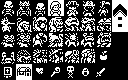
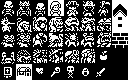
Added Wall

Changed region(s): [[0.875, 0.4, 1.0, 0.6]]

diff --git a/src/Player.c b/src/Player.c
@@ -50,15 +50,19 @@ int PlayerInit(Object *obj) {
 	Box2DBody *body = Box2DWorldCreateBody(CurrentWorld(), bodyDef);
 	Box2DBodyDefDestroy(bodyDef);
 
-	Box2DPolygonShape *boxShape = Box2DPolygonShapeCreate();
-	Box2DPolygonShapeSetAsBox(boxShape, (Vec2F) {0.25, 0.125});
+	Box2DCircleShape *circleShape = Box2DCircleShapeCreate();
+	Box2DCircleShapeSetRadius(circleShape, 0.25);
+
+	//Box2DPolygonShape *boxShape = Box2DPolygonShapeCreate();
+	//Box2DPolygonShapeSetAsBox(boxShape, (Vec2F) {0.25, 0.125});
 	Box2DFixtureDef *fixtureDef = Box2DFixtureDefCreate();
-	Box2DFixtureDefSetShape(fixtureDef, boxShape);
-	Box2DFixtureDefSetDensity(fixtureDef, 16.0);
-	Box2DFixtureDefSetFriction(fixtureDef, 0.3);
+	Box2DFixtureDefSetShape(fixtureDef, circleShape);
+	Box2DFixtureDefSetDensity(fixtureDef, 10.0);
+	Box2DFixtureDefSetFriction(fixtureDef, 0.05);
 	Box2DFixture *fixture = Box2DBodyCreateFixtureFromFixtureDef(body, fixtureDef);
 	Box2DFixtureDefDestroy(fixtureDef);
-	Box2DPolygonShapeDestroy(boxShape);
+	//Box2DPolygonShapeDestroy(boxShape);
+	Box2DCircleShapeDestroy(circleShape);
 
 	Box2DBodySetLinearDamping(body, 10.0);
 	Box2DBodySetAngularDamping(body, 0.0);

diff --git a/src/Box2DWrapper.cpp b/src/Box2DWrapper.cpp
@@ -3,6 +3,7 @@
 #include <b2_body.h>
 #include <b2_math.h>
 #include <b2_polygon_shape.h>
+#include <b2_circle_shape.h>
 #include <b2_fixture.h>
 
 #define ToVec2(vec2f) (b2Vec2{vec2f.x, vec2f.y})
@@ -14,6 +15,7 @@
 #define AsFixture(fixture) ((b2Fixture*) (fixture))
 #define AsShape(shape) ((b2Shape*) (shape))
 #define AsPolygonShape(polygonShape) ((b2PolygonShape*) (polygonShape))
+#define AsCircleShape(circleShape) ((b2CircleShape*) (circleShape))
 
 Box2DWorld* Box2DWorldCreate(Vec2F gravity) {
 	return new b2World(ToVec2(gravity));
@@ -126,4 +128,16 @@ void Box2DPolygonShapeSetAsBox(Box2DPolygonShape *polygonShape, Vec2F halfdims) 
 
 void Box2DPolygonShapeDestroy(Box2DPolygonShape *polygonShape) {
 	delete AsPolygonShape(polygonShape);
+}
+
+Box2DCircleShape* Box2DCircleShapeCreate() {
+	return new b2CircleShape();
+}
+
+void Box2DCircleShapeSetRadius(Box2DCircleShape *circleShape, float radius) {
+	AsCircleShape(circleShape)->m_radius = radius;
+}
+
+void Box2DCircleShapeDestroy(Box2DCircleShape *circleShape) {
+	delete AsCircleShape(circleShape);
 }

diff --git a/src/Box2DWrapper.h b/src/Box2DWrapper.h
@@ -15,6 +15,7 @@ typedef void Box2DFixtureDef;
 typedef void Box2DFixture;
 typedef void Box2DShape;
 typedef void Box2DPolygonShape;
+typedef void Box2DCircleShape;
 
 Box2DWorld*  Box2DWorldCreate(Vec2F gravity);
 Box2DBody*   Box2DWorldCreateBody(Box2DWorld *world, Box2DBodyDef *bodyDef);
@@ -47,8 +48,13 @@ void             Box2DFixtureDefDestroy(Box2DFixtureDef *fixtureDef);
 void Box2DFixtureSetSensor(Box2DFixture *fixture, bool flag);
 
 Box2DPolygonShape* Box2DPolygonShapeCreate();
+void               Box2DPolygonShapeSetPosition(Box2DPolygonShape *polygonShape, Vec2F position);
 void               Box2DPolygonShapeSetAsBox(Box2DPolygonShape *polygonShape, Vec2F halfdims);
 void               Box2DPolygonShapeDestroy(Box2DPolygonShape *polygonShape);
+
+Box2DCircleShape* Box2DCircleShapeCreate();
+void              Box2DCircleShapeSetRadius(Box2DCircleShape *circleShape, float radius);
+void              Box2DCircleShapeDestroy(Box2DCircleShape *circleShape);
 
 #ifdef __cplusplus
 }

diff --git a/src/Blueprints/Wall.c b/src/Blueprints/Wall.c
@@ -1,0 +1,23 @@
+#include "../Blueprint.h"
+#include "../Main.h"
+#include "../Box2DWrapper.h"
+
+int WallInit(Object *obj, Vec2F position) {
+	PROPAGATE_ERROR(ObjectInit(obj));
+	obj->pos = position;
+	obj->txSrc = (SDL_Rect) {112, 32, 16, 16};
+	obj->txSize = (Vec2F) {1.0, 1.0};
+
+	Box2DBodyDef *bodyDef = Box2DBodyDefCreate();
+	Box2DBodyDefSetPosition(bodyDef, position);
+	Box2DBody *body = Box2DWorldCreateBody(CurrentWorld(), bodyDef);
+	Box2DBodyDefDestroy(bodyDef);
+
+	Box2DPolygonShape *boxShape = Box2DPolygonShapeCreate();
+	Box2DPolygonShapeSetAsBox(boxShape, (Vec2F) {0.5, 0.5});
+	Box2DFixture *fixture = Box2DBodyCreateFixtureFromShape(body, boxShape, 0.0);
+	Box2DPolygonShapeDestroy(boxShape);
+
+	obj->body = body;
+	return 0;
+}

diff --git a/src/Levels/LevelTest.c b/src/Levels/LevelTest.c
@@ -16,6 +16,16 @@ int LevelTestLoad() {
 	StaticBoxInit(staticBox1, (Vec2F) {5.0, 5.0});
 	DrawListInsert(drawList, staticBox1);
 
+	Object *wall1 = ArrayAppend(objArray, NULL);
+	WallInit(wall1, (Vec2F) {2.0, 2.0});
+	DrawListInsert(drawList, wall1);
+	Object *wall2 = ArrayAppend(objArray, NULL);
+	WallInit(wall2, (Vec2F) {3.0, 2.0});
+	DrawListInsert(drawList, wall2);
+	Object *wall3 = ArrayAppend(objArray, NULL);
+	WallInit(wall3, (Vec2F) {3.0, 3.0});
+	DrawListInsert(drawList, wall3);
+
 	LevelSetUnloader(LevelTestUnloader);
 	return 0;
 }

diff --git a/src/Hud.h b/src/Hud.h
@@ -2,10 +2,10 @@
 #define HUD_H
 
 typedef struct _Hud {
-
+	void (*deinit)(struct _Hud*);
 } Hud;
 
-int HudInit(Hud *hud);
+int HudLevelEditorInit(Hud *hud);
 void HudDeinit(Hud *hud);
 
 #endif

diff --git a/src/Blueprint.h b/src/Blueprint.h
@@ -7,4 +7,6 @@
 int StaticBoxInit(Object *obj, Vec2F position);
 void StaticBoxDeinit(Object *obj);
 
+int WallInit(Object *obj, Vec2F position);
+
 #endif

diff --git a/src/Huds/HudCommon.h b/src/Huds/HudCommon.h
@@ -1,0 +1,8 @@
+#ifndef HUD_COMMON_H
+#define HUD_COMMON_H
+
+#include "../Hud.h"
+
+int HudInit(Hud *hud);
+
+#endif

diff --git a/src/Huds/HudLevelEditor.c b/src/Huds/HudLevelEditor.c
@@ -1,0 +1,6 @@
+#include "../Hud.h"
+#include "HudCommon.h"
+
+int HudLevelEditorInit(Hud *hud) {
+	return 0;
+}

diff --git a/src/Huds/HudCommon.c b/src/Huds/HudCommon.c
@@ -1,0 +1,5 @@
+#include "HudCommon.h"
+
+int HudInit(Hud *hud) {
+	return 0;
+}
